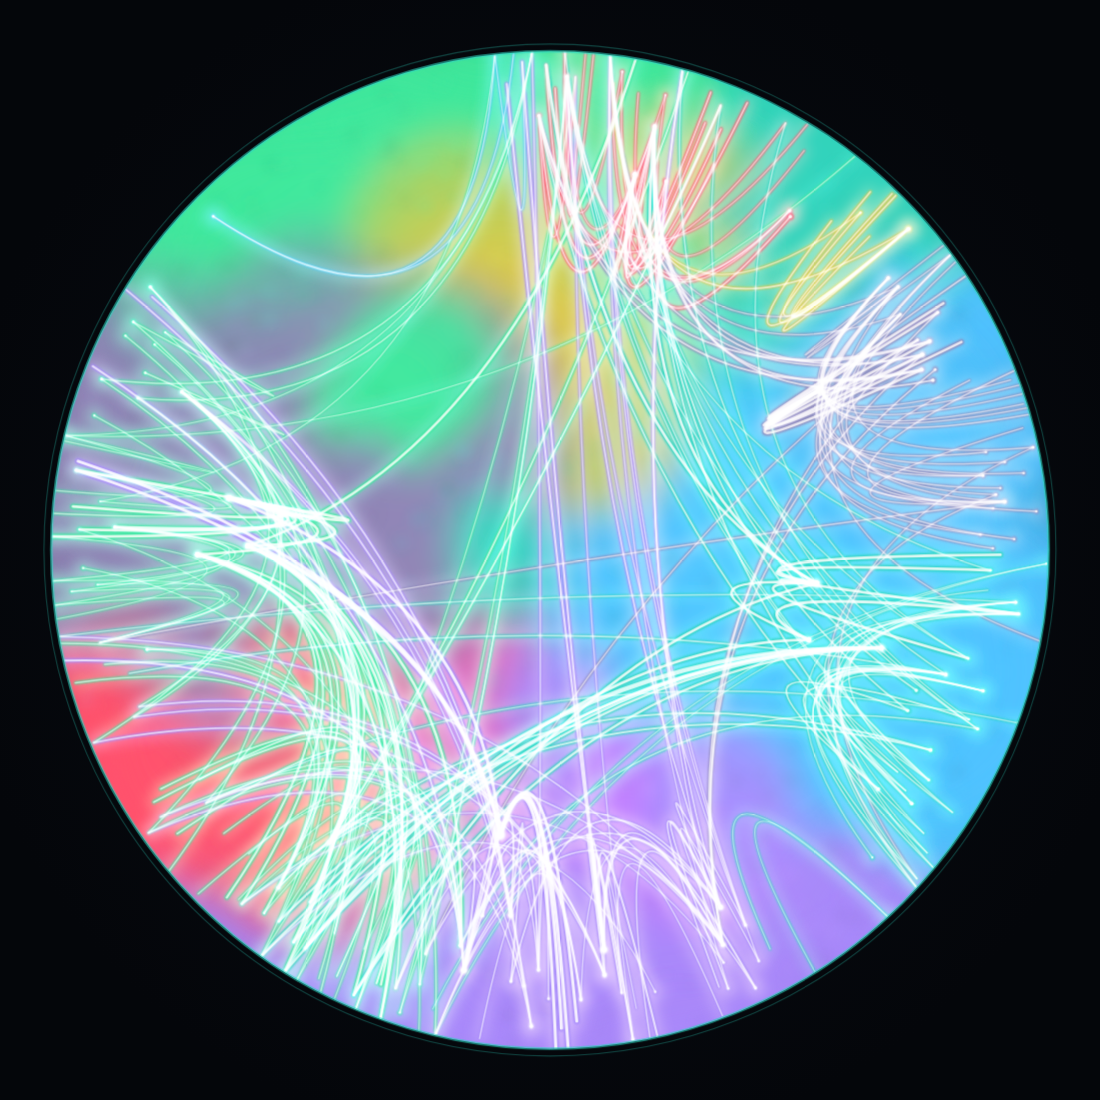
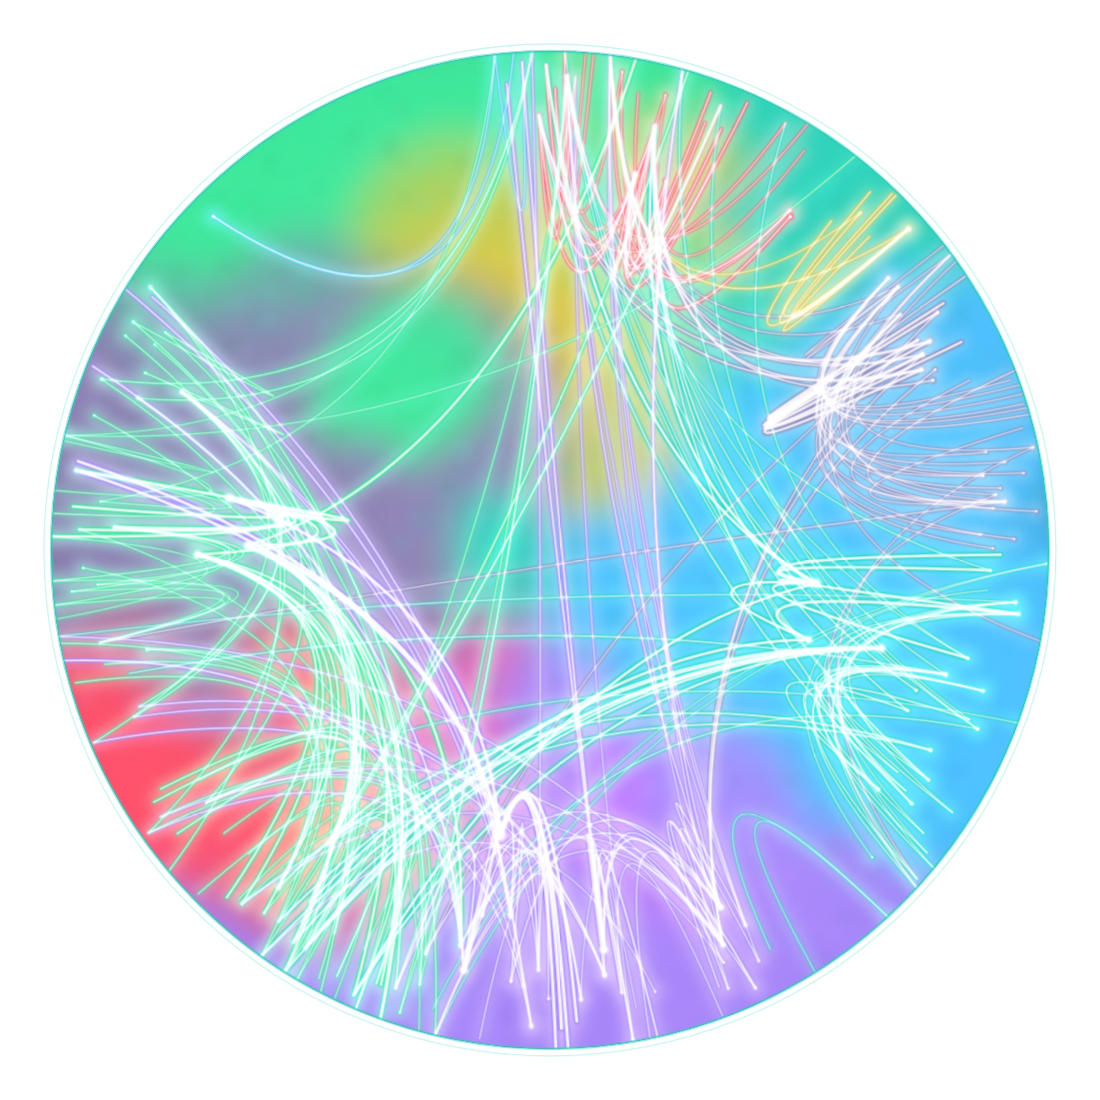
fingerprint: transparent corners — embeddable badge
Drop the full-canvas opaque background rect (and its now-unused gradient) so only
the disc is painted; the corners are transparent. Re-enable Chrome's
--default-background-color=00000000 so the PNG is RGBA with alpha-0 corners
(rsvg/resvg preserve SVG alpha by default). The disc itself is unchanged (it keeps
its own dark backing circle + nebula); the HTML wrapper supplies its own dark page
bg for the standalone preview. Result: the fingerprint composites cleanly onto any
page background (verified on white/dark/cream) instead of a dark square.

Verified: PNG is RGBA, corner pixels (0,0,0,0), disc opaque; SVG valid (0 rects);
determinism + order-independence intact. Example asset regenerated with alpha.

diff --git a/fingerprint/README.md b/fingerprint/README.md
@@ -93,6 +93,9 @@ lower without being "bad".
 
 ## Determinism & offline
 
+The disc has **transparent corners** (RGBA PNG / no background rect in the SVG), so it drops cleanly onto
+any page as an embeddable badge — light, dark, or coloured.
+
 SVG generation is pure, offline and deterministic, and **engine-independent**: node ids are sorted and
 filament ordering is tie-broken on edge identity before layout, so the *same logical graph* yields
 byte-identical SVG regardless of the order an engine happens to emit callgraph keys or adjacency lists
